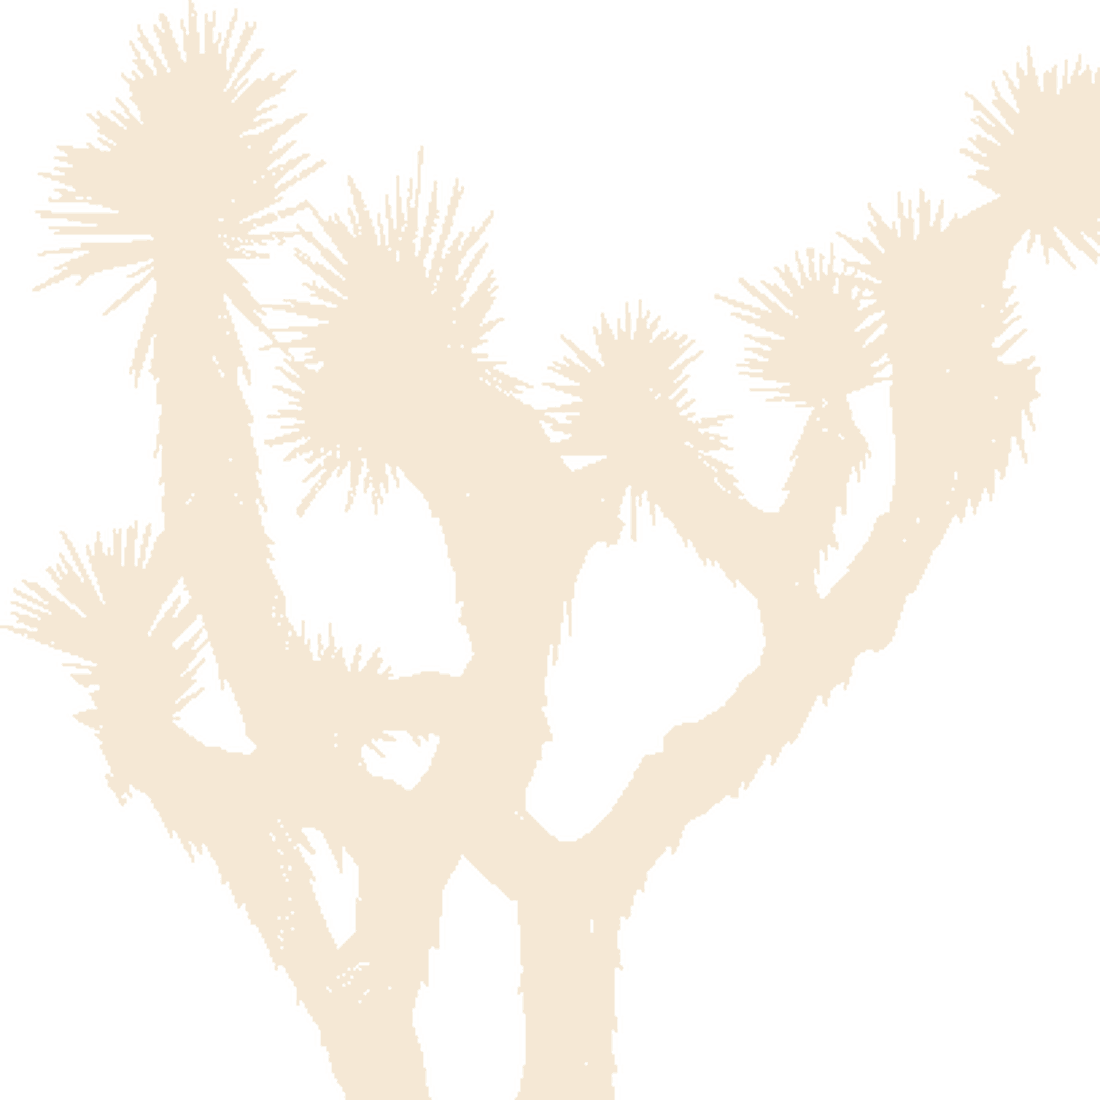
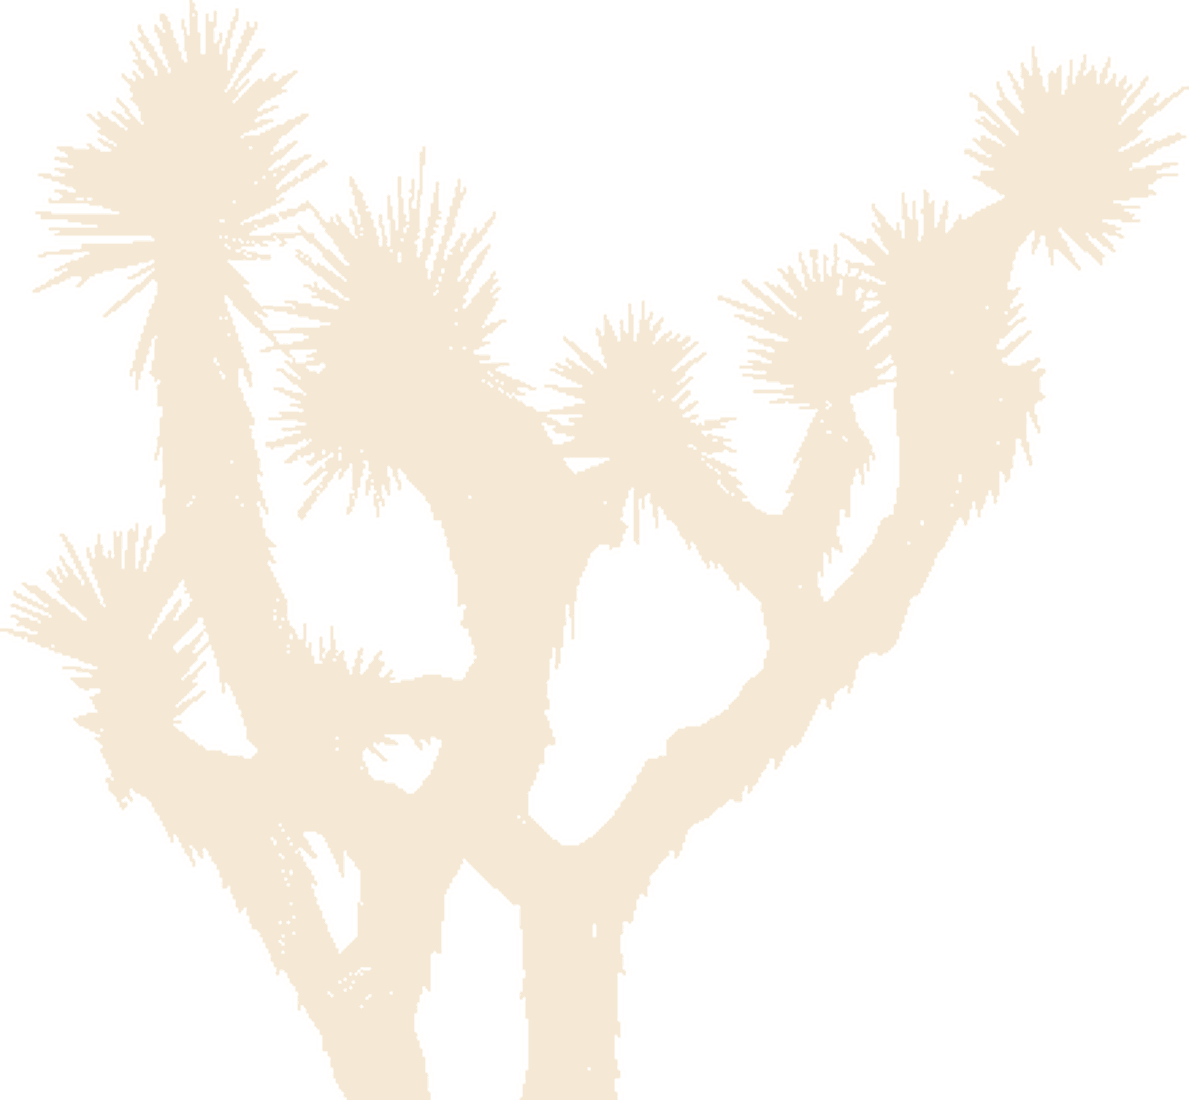
Left-align the FAQs, and stop cutting off the Joshua Tree cactus
Two aesthetic fixes from Augment's review of the Joshua Tree guide.

FAQs were indented about 160px further right than every other section. The
Trailhead FAQ block used `max-w-[880px] mx-auto`, so its 880px measure was
centred on the page while every other section uses `max-w-[1180px]`. The measure
is now left-aligned inside the standard 1180px column: the FAQ heading starts on
the same left edge as Explore and Post-Race (measured 121px on both Joshua Tree
and Rocky Mountain, matching the Explore heading exactly).

This is a shared component, so it shifts the FAQ section left on all five other
guides too. That is the design spec's intent -- "left-aligned throughout except
Schedule, Partners, Footer and photo bands" -- and it makes each guide
internally consistent rather than divergent, but it is a visible change to live
guides and a one-line revert if unwanted.

The cut-off cactus was in the ASSET, not the layout, which is worth recording
because the obvious diagnosis is wrong: the rendered watermark sits ~57px inside
the frame at every width and is clipped only at the bottom, which is the
deliberate bottom-[-4%] bleed. The cut was baked into joshua-tree-icon.png --
the silhouette was pulled from the shield by taking a fixed 36%-of-width region
BEFORE finding the connected component, so a branch reaching past 36% was sliced
flat at the region edge.

Re-extracted by scanning components across the full mask above the ground line
[…]

Changed region(s): [[0.0, 0.0, 1.0, 1.0], [0.3091, 0.6491, 0.4018, 0.7418], [0.0309, 0.1545, 0.0618, 0.2164]]

diff --git a/src/components/FAQSection.tsx b/src/components/FAQSection.tsx
@@ -19,7 +19,14 @@ export default function FAQSection({ data, basePath = 'sections.faqs', theme = '
   if (theme === 'trailhead') {
     return (
       <section id="faqs" className="bg-vr-forest px-6 md:px-12 py-20 md:py-[104px]">
-        <div className="max-w-[880px] mx-auto">
+        {/* The 880px measure is LEFT-aligned inside the standard 1180px content
+            column, not centred on the page. Centring it indented the whole
+            section ~150px further right than every other section on the page,
+            which is what Augment flagged on Joshua Tree. The design spec is
+            explicit: left-aligned throughout except Schedule, Partners, Footer
+            and the photo bands. */}
+        <div className="max-w-[1180px] mx-auto">
+          <div className="max-w-[880px]">
           <TrailHeader dark eyebrow="Good to know" title="FAQs" className="mb-10" />
           {editing ? (
             <div className="flex flex-col gap-3">
@@ -47,6 +54,7 @@ export default function FAQSection({ data, basePath = 'sections.faqs', theme = '
               ))}
             </div>
           )}
+          </div>
         </div>
       </section>
     )

diff --git a/HANDOFF.md b/HANDOFF.md
@@ -370,6 +370,31 @@ The 29 Palms upload was a 447x447 square that was **47% white padding**, which i
 A trimmed copy lives at `public/images/events/joshua-tree-29palms.webp` and the partner points at
 it; the team's original upload is untouched in `uploads/` and re-uploading from /edit overrides it.
 
+### Augment review fixes (2026-10-07)
+
+**FAQs were indented ~160px further right than every other section.** The Trailhead FAQ block used
+`max-w-[880px] mx-auto`, i.e. its 880px measure was centred on the PAGE, while every other section
+uses `max-w-[1180px]`. The 880px measure is now left-aligned inside the standard 1180px column, so
+the FAQ heading starts on the same left edge as Explore, Post-Race and the rest (measured: 121px on
+both Joshua Tree and Rocky Mountain, matching the Explore heading exactly).
+
+This is a **shared-component change — it shifts the FAQ section left on all five other guides too.**
+That is the intended reading of the design spec ("left-aligned throughout except Schedule, Partners,
+Footer and photo bands") and it makes each guide internally consistent rather than divergent, but it
+is a visible change to live guides. One-line revert if it is not wanted.
+
+**The Joshua Tree watermark cactus was cut off in the ASSET, not the layout.** Worth remembering,
+because the obvious diagnosis is wrong: measuring the rendered hero shows the watermark sits ~57px
+inside the frame at every width and is clipped only at the bottom, which is the deliberate
+`bottom-[-4%]` bleed. The cut was baked into `joshua-tree-icon.png` — the silhouette was extracted
+from the shield by taking a fixed 36%-of-width region BEFORE finding the connected component, so a
+branch reaching past 36% was sliced flat at the region edge.
+
+Re-extracted by scanning components across the full mask above the ground line and **choosing the
+largest component that touches no region edge** — an edge-touching silhouette is one the shield
+artwork itself crops (the right-hand tree runs off the badge). Generalisable rule for pulling a mark
+out of a badge: never pre-crop, and reject components that touch an edge.
+
 ---
 
 ## Known issues / backlog
